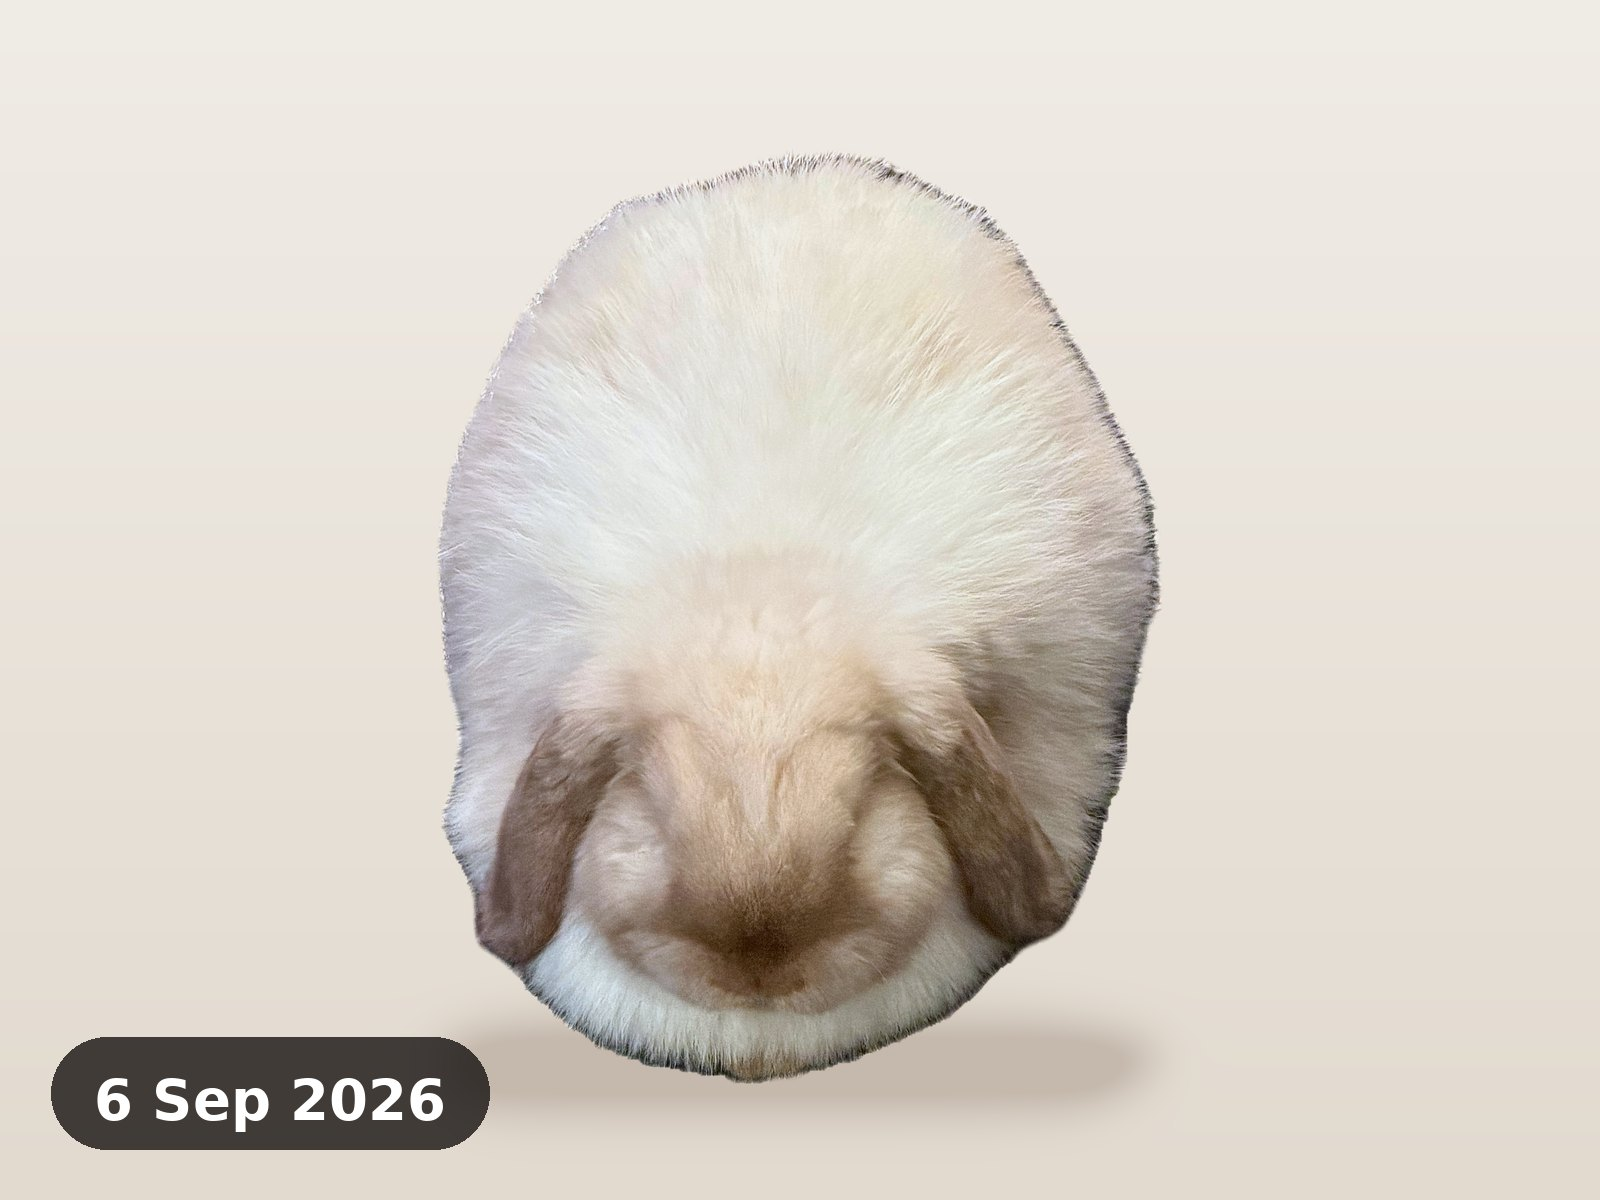
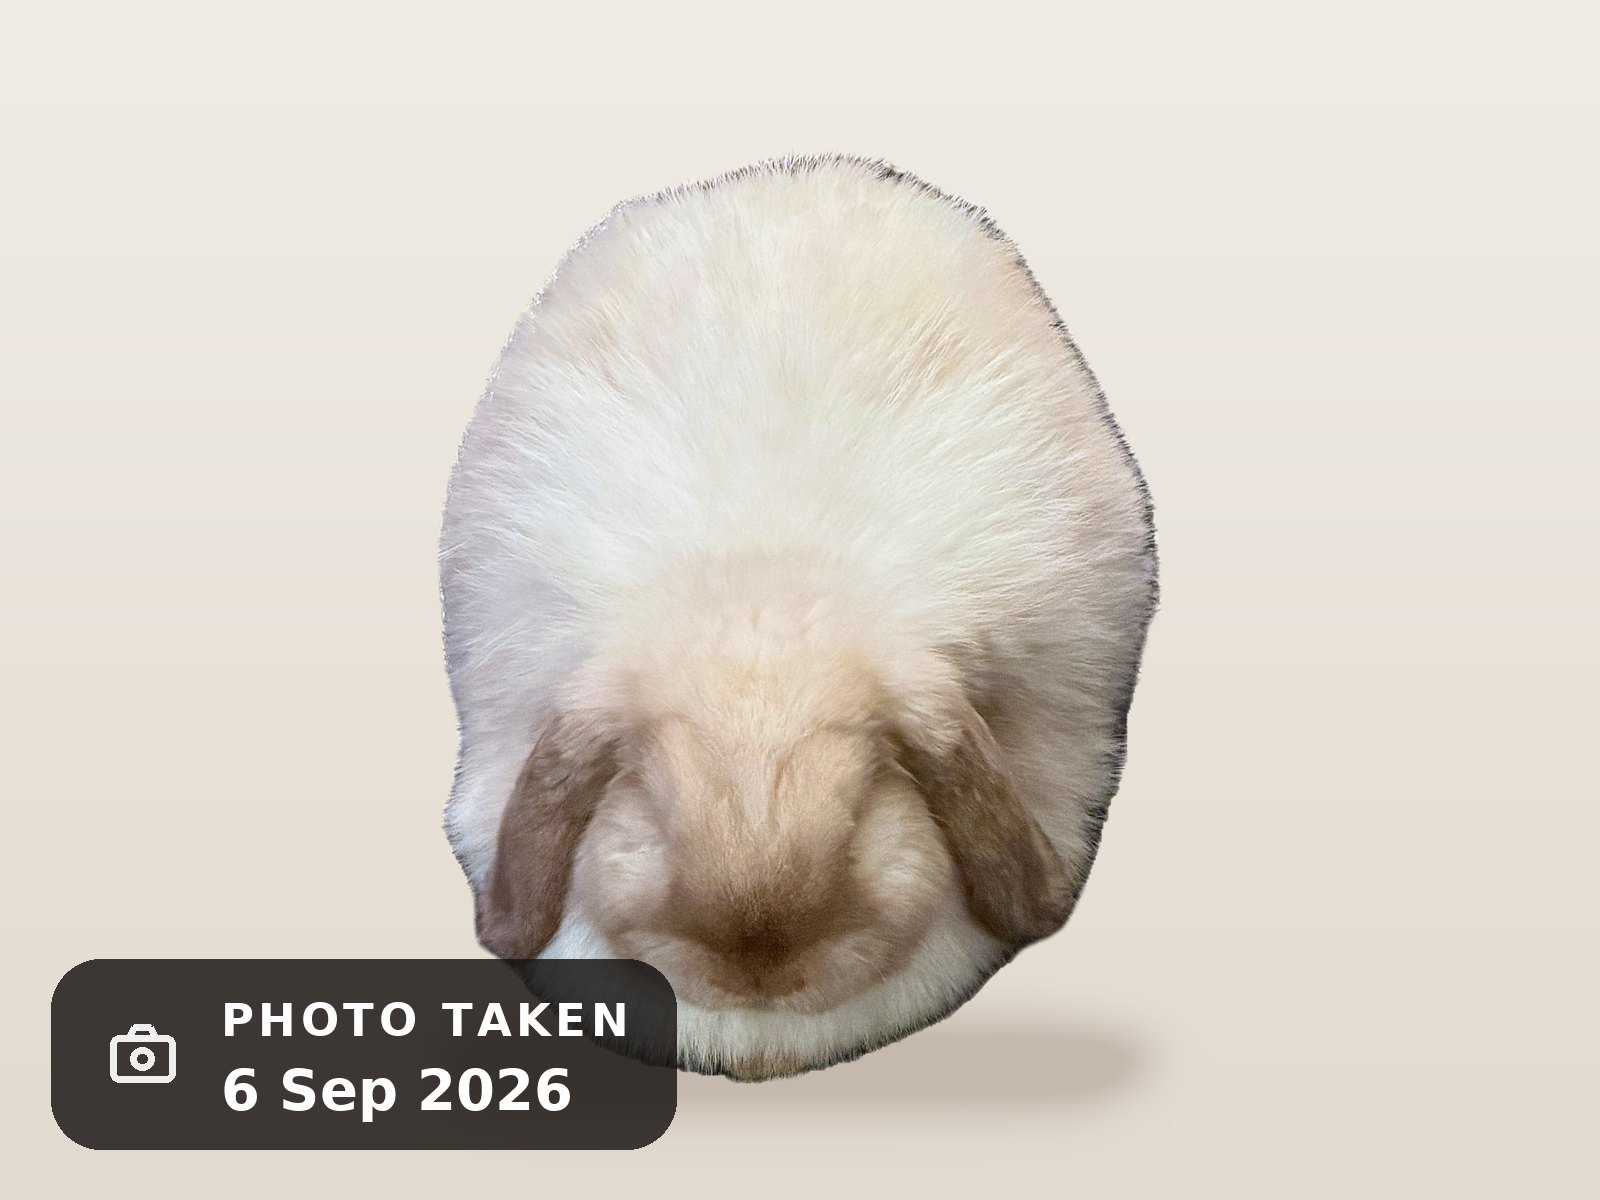
The stamp says PHOTO TAKEN, and her real age wins the page
William, on Butterscotch's listing: "No photo icon? We need it to be
obvious that this picture was taken on that date, and that's not the
active age of the rabbit ... make it so that people understand its true
age instead of reading the big contrasting letters and seeing that date
and assuming it's its actual age."

He is right and yesterday's stamp caused it. "23 Aug 2026 · 3 weeks, 5
days old" in white on near-black was the highest-contrast text on the
listing, and it was NOT her age — it was her age on the day of the shot,
six weeks ago. Her real age sat below it in 13px grey. The loudest thing
on the page said the wrong number.

Both halves are fixed.

THE STAMP CARRIES A LABEL, in the site's own label form (small caps,
tracked, faint — the same treatment as BORN, READY, MOTHER), over two
lines, with the camera glyph the HTML pill used to carry, redrawn in
datestamp.py from the same 24-unit artwork that is in index.html so the
two are one camera:

    [camera]  PHOTO TAKEN
              23 Aug 2026 · 3 weeks, 5 days old

The label is what makes the values under it read as facts about the
PHOTOGRAPH rather than facts about the rabbit.

THE RABBIT'S AGE TODAY TAKES THE DARKEST INK and the whole phrase goes
bold, "Now" included. It was an adverb in faint type beside a bold
number, which reads as an aside; inside the bold it reads as the claim,
and it is now the strongest line in the box after the name — which is
[…]

Changed region(s): [[0.0312, 0.8017, 0.4375, 0.9558]]

diff --git a/index.html b/index.html
@@ -912,7 +912,14 @@ header.nav.stuck{border-bottom-color:var(--line)}
    "new people, new noise" onto a line of its own (orphantest, 2026-09-02).
    Kept whole, the link either fits or moves down entire. */
 .viewer-grow .stagelink{white-space:nowrap}
+/* the card keeps the softer ink -- it is a 170px column and the age is the only
+   thing in the row, so nothing there is competing with it */
 .grow-txt b{color:var(--ink-soft);font-weight:600}
+/* THE RABBIT'S AGE TODAY, in the opened listing, is the strongest line in the
+   box after the name: darkest ink, weight 600, the whole phrase including
+   "Now". It is what changes daily and what a buyer is judging, and until 9 Sept
+   2026 it lost the page to a date burned into the photograph above it. */
+.viewer-grow .grow-txt b{color:var(--ink)}
 .viewer-grow{margin:0}
 /* At 360px the bar and the text share a row and the text loses, wrapping and
    stranding the last word. Stacking gives the sentence the whole column
@@ -4196,7 +4203,19 @@ body.locked{overflow:hidden}
       bar+='<i class="'+(i<wk?'on':i===wk?'on now':'')+'"></i>';
     var age=ageAt(r.dob, todayISO());
     if(age==='the day it was born') age='Born today';
-    var txt=(full&&age!=='Born today'?'Now ':'')+'<b>'+esc(age)+'</b>';
+    /* "NOW" IS PART OF THE STATEMENT, NOT A PREFIX TO IT (9 Sept 2026).
+       William, on Butterscotch: "make it so that people understand its true age
+       instead of reading the big contrasting letters and seeing that date and
+       assuming it's its actual age." Two ages are on that screen -- the one in
+       the photograph's stamp and the one the rabbit is today -- and the stamp
+       was winning, being white on near-black. The stamp now carries a PHOTO
+       TAKEN label; this is the other half. "Now" was faint text next to a bold
+       number, which reads as an aside; inside the bold it reads as the claim,
+       and the whole phrase goes to the darkest ink, making the rabbit's age
+       today the strongest line in the box after its name. No new type: 13px,
+       weight 600, --ink is the treatment a kit chip and a parent tile already
+       use (carddrifttest's list). */
+    var txt='<b>'+(full&&age!=='Born today'?'Now ':'')+esc(age)+'</b>';
     /* The stage name is a doorway. Somebody reading "carrying becomes normal"
        has just been told the phase this rabbit is in and has no way to find out
        what it means or what follows it; the whole routine is sitting further
